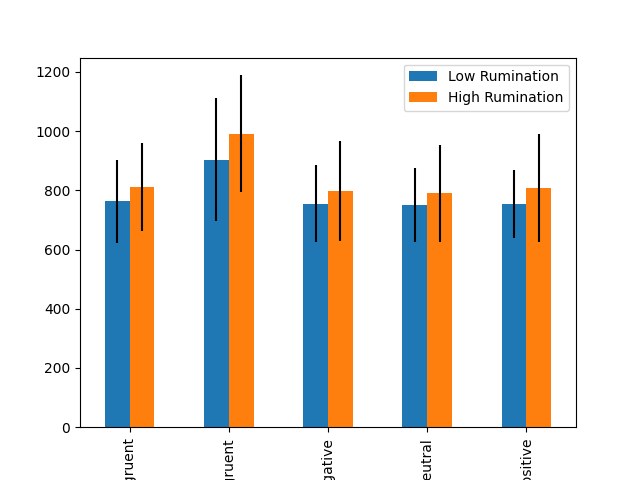
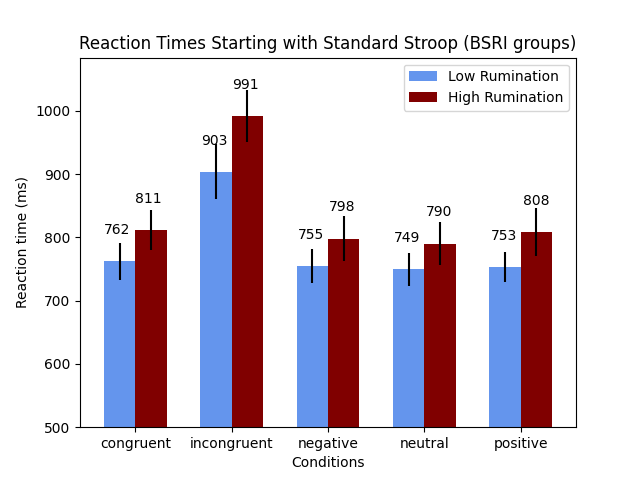
fixed graphs and cleaned code a little

diff --git a/analyze.py b/analyze.py
@@ -39,8 +39,6 @@ emotion_first_trait_high = emotion_first.loc[emotion_first['rrs_sums'] >  emotio
 emotion_first_state_low =  emotion_first.loc[emotion_first['bsri_sums'] <= emotion_first['bsri_sums'].median()].index
 emotion_first_state_high = emotion_first.loc[emotion_first['bsri_sums'] > emotion_first['bsri_sums'].median()].index
 
-# How do I deal with uneven groups...
-
 # means for each each condition in each block group
 standard_first_trait_low_mean  = standard_means.iloc[standard_first_trait_low].mean()
 standard_first_trait_high_mean = standard_means.iloc[standard_first_trait_high].mean()
@@ -53,15 +51,15 @@ emotion_first_state_low_mean  = emotion_means.iloc[emotion_first_state_low].mean
 emotion_first_state_high_mean = emotion_means.iloc[emotion_first_state_high].mean()
 
 # sds for each condition in each block group
-standard_first_trait_low_sd = standard_means.iloc[standard_first_trait_low].std()
-standard_first_trait_high_sd = standard_means.iloc[standard_first_trait_high].std()
-standard_first_state_low_sd = standard_means.iloc[standard_first_state_low].std()
-standard_first_state_high_sd = standard_means.iloc[standard_first_state_high].std()
+standard_first_trait_low_sd = standard_means.iloc[standard_first_trait_low].sem()
+standard_first_trait_high_sd = standard_means.iloc[standard_first_trait_high].sem()
+standard_first_state_low_sd = standard_means.iloc[standard_first_state_low].sem()
+standard_first_state_high_sd = standard_means.iloc[standard_first_state_high].sem()
 
-emotion_first_trait_low_sd =  emotion_means.iloc[emotion_first_trait_low].std()
-emotion_first_trait_high_sd = emotion_means.iloc[emotion_first_trait_high].std()
-emotion_first_state_low_sd =  emotion_means.iloc[emotion_first_state_low].std()
-emotion_first_state_high_sd = emotion_means.iloc[emotion_first_state_high].std()
+emotion_first_trait_low_sd =  emotion_means.iloc[emotion_first_trait_low].sem()
+emotion_first_trait_high_sd = emotion_means.iloc[emotion_first_trait_high].sem()
+emotion_first_state_low_sd =  emotion_means.iloc[emotion_first_state_low].sem()
+emotion_first_state_high_sd = emotion_means.iloc[emotion_first_state_high].sem()
 
 # Convert means and sds into dataframes... surely there's a better way to do this
 standard_trait_mean = pd.DataFrame({'Conditions': standard_first_trait_high_mean.index, 'Low Rumination': standard_first_trait_low_mean.values,'High Rumination': standard_first_trait_high_mean.values})
@@ -76,25 +74,20 @@ emotion_trait_sd =  pd.concat([emotion_first_trait_low_sd.rename('Low Rumination
 emotion_state_sd =  pd.concat([emotion_first_state_low_sd.rename('Low Rumination'), emotion_first_state_high_sd.rename('High Rumination')], axis=1)
 sds = [standard_trait_sd, standard_state_sd, emotion_trait_sd, emotion_state_sd]
 
-block_labels = [['Standard', 'Trait'], ['Standard', 'State'], ['Emotional', 'Trait'], ['Emotional', 'State']]
+block_labels = [['Standard', 'RRS'], ['Standard', 'BSRI'], ['Emotional', 'RRS'], ['Emotional', 'BSRI']]
 
 # Started with standard Stroop graph
 for block in range(len(means)):
     mean = means[block]
     sd = sds[block]
     block_label = block_labels[block]
-    ax = mean.plot(x='Conditions', y = ['Low Rumination', 'High Rumination'], kind = 'bar', yerr=sd, rot = 0)
+    ax = mean.plot(x='Conditions', y = ['Low Rumination', 'High Rumination'], kind = 'bar', yerr=sd, rot = 0, color=['cornflowerblue', 'maroon'], width=0.65)
+    plt.ylim(bottom=500) # limit y-min to see differences better
     # add bar values
-    for p in ax.patches:
-        ax.annotate(str(int(p.get_height())), (p.get_x() * 1.005, p.get_height() * 1.005))
+    for i, p in enumerate(ax.patches):
+        ax.annotate(str(int(p.get_height())), (p.get_x() * 1.005, p.get_height() + 43))
     plt.ylabel('Reaction time (ms)')
-    plt.title(f'Reaction Times of {block_label[1]} Ruminators starting with {block_label[0]} Stroop')
-# standard_trait_mean.plot(x='Conditions', y = ['Low Rumination', 'High Rumination'], kind = 'bar', yerr=standard_trait_sd, rot = 0)
-
-# standard_state_mean.plot(x='Conditions', y = ['Low Rumination', 'High Rumination'], kind = 'bar', yerr=standard_state_sd, rot = 0)
-# emotion_trait_mean.plot(x='Conditions', y = ['Low Rumination', 'High Rumination'], kind = 'bar', yerr=emotion_trait_sd, rot = 0)
-
-# emotion_state_mean.plot(x='Conditions', y = ['Low Rumination', 'High Rumination'], kind = 'bar', yerr=emotion_state_sd, rot = 0)
+    plt.title(f'Reaction Times Starting with {block_label[0]} Stroop ({block_label[1]} groups)')
 
 plt.show()
 
